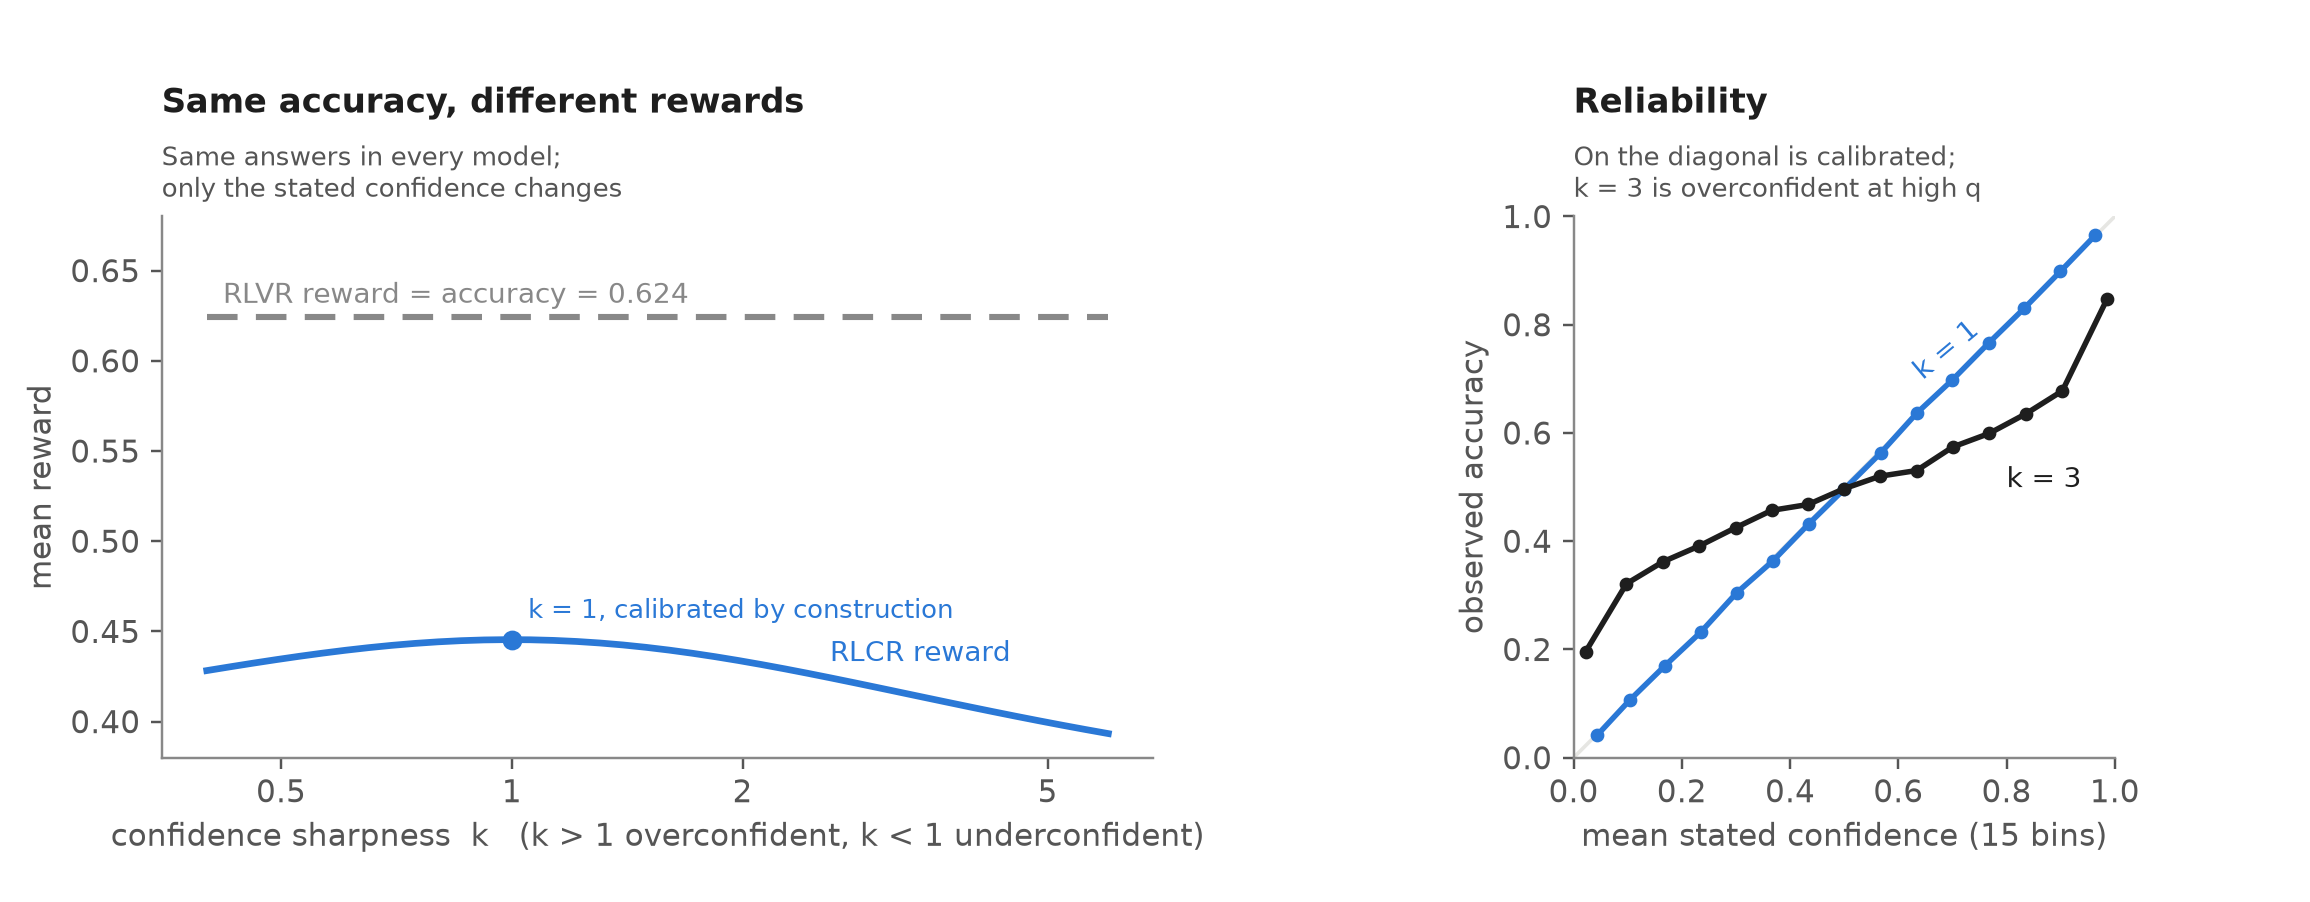
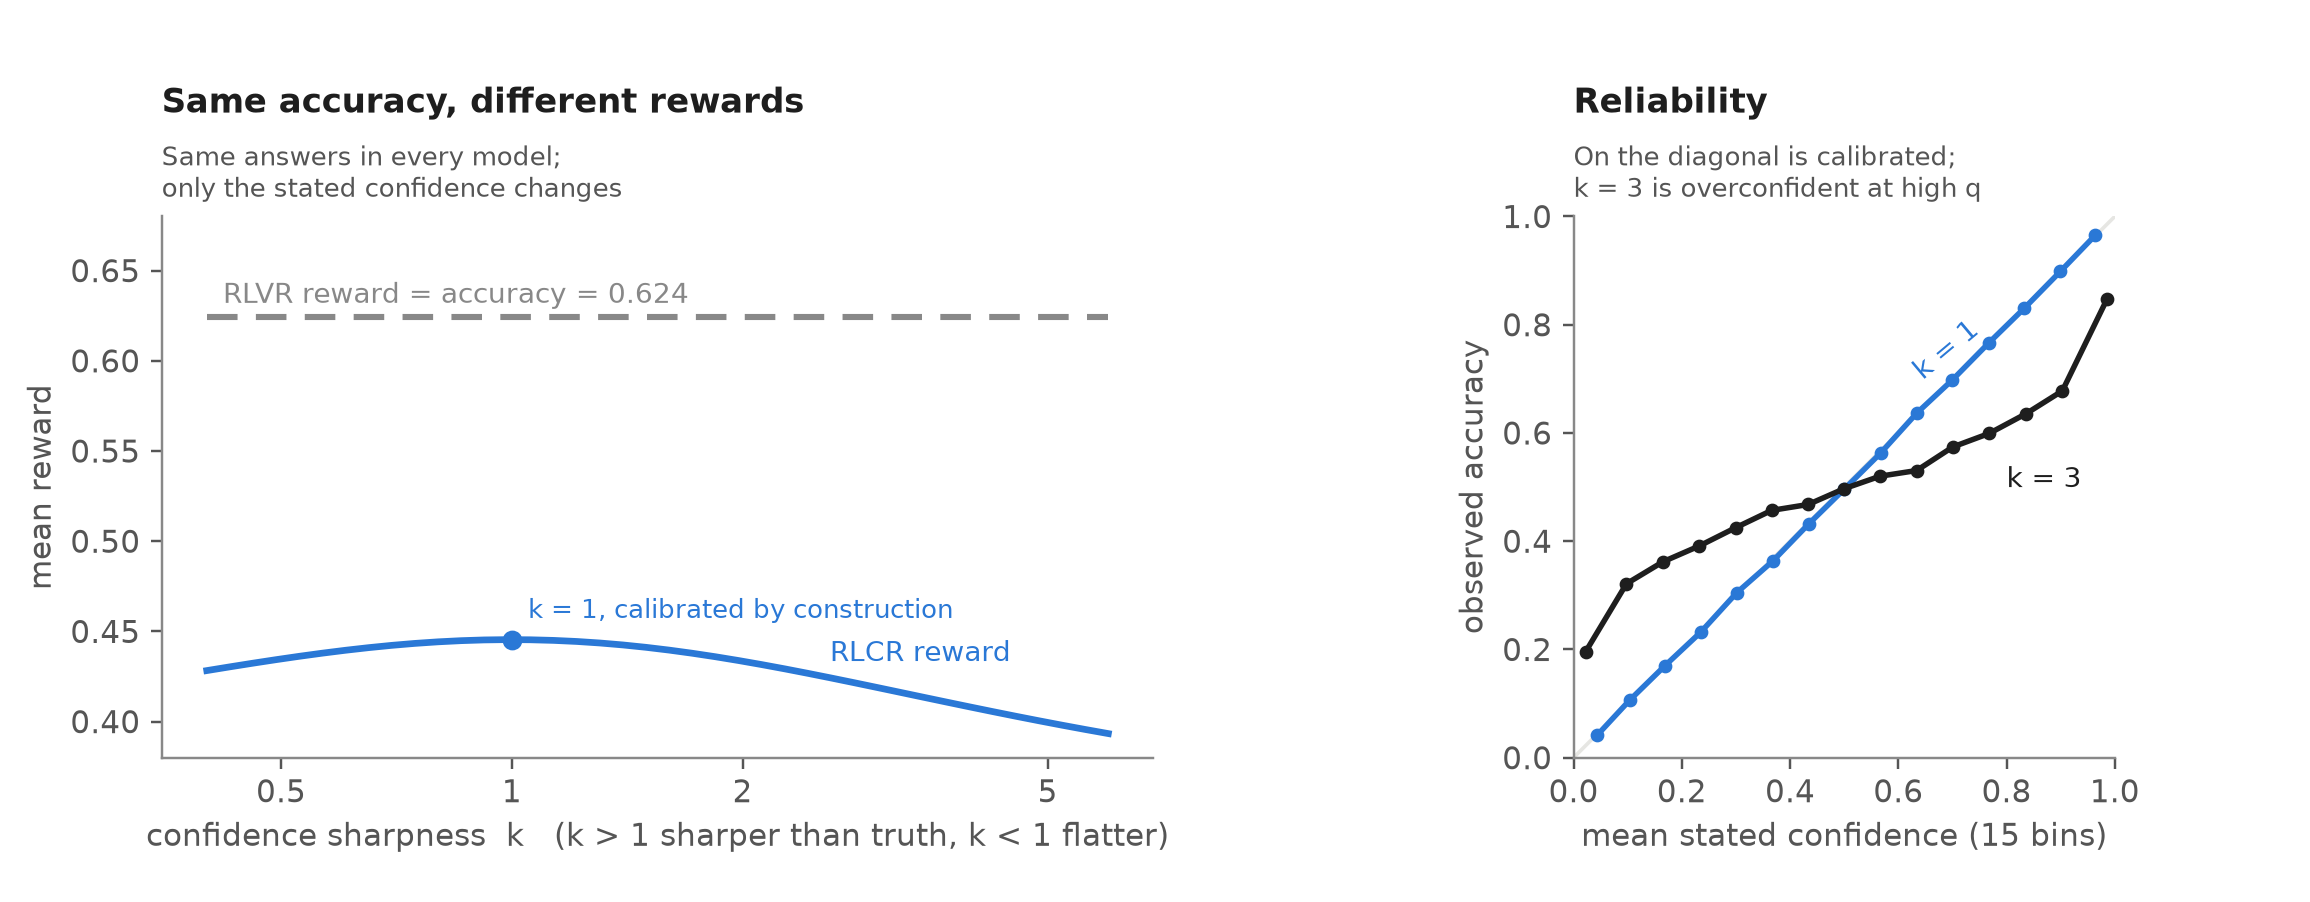
Draft: relabel the toy chart axis and the families figure column and RLCD node, drop the unverified Turtel venue

Changed region(s): [[0.0623, 0.9002, 0.5299, 0.9623]]

diff --git a/tools/rl_post_families_diagram.py b/tools/rl_post_families_diagram.py
@@ -38,7 +38,7 @@ groups = [
     ]),
     ("A proper scoring rule", "Confidence is part of the reward", True, [
         ("RLCR", "Checker plus a Brier term on stated confidence"),
-        ("RLCD recipes", "Disclosed by others; scoring rule on the whole distribution"),
+        ("RLCD recipes", "Disclosed by others; calibration loss on the whole distribution"),
         ("System One: Jev", "Typed probabilities out; reward not published"),
     ]),
 ]
@@ -72,7 +72,7 @@ def curve(x1, y1, x2, y2, color, w=1.8):
 
 svg = []
 # column labels
-for x, t in [(ROOT_X, "THE OBJECTIVE"), (GRP_X, "WHERE THE REWARD COMES FROM"), (M_X, "METHOD AND WHAT IT DOES")]:
+for x, t in [(ROOT_X, "THE OBJECTIVE"), (GRP_X, "WHAT THE REWARD IS BUILT FROM"), (M_X, "METHOD AND WHAT IT DOES")]:
     svg.append(f'<text x="{x}" y="46" class="col">{t}</text>')
 
 # edges first (under nodes)

diff --git a/tools/rl_post_plots.py b/tools/rl_post_plots.py
@@ -112,7 +112,7 @@ ax.text(1.05, (y - (conf(1) - y) ** 2).mean() + 0.012, "k = 1, calibrated by con
         color=ACCENT, fontsize=8.5)
 ax.text(2.6, rl[-12] + 0.012, "RLCR reward", color=ACCENT, fontsize=9)
 ax.set_ylim(0.38, 0.68)
-ax.set_xlabel("confidence sharpness  k   (k > 1 overconfident, k < 1 underconfident)")
+ax.set_xlabel("confidence sharpness  k   (k > 1 sharper than truth, k < 1 flatter)")
 ax.set_ylabel("mean reward")
 ax.set_title("Same accuracy, different rewards", loc="left", pad=34)
 sub(ax, "Same answers in every model;\nonly the stated confidence changes")

diff --git a/_drafts/rl-for-language-models-2026-rlhf-rlvr-system-one.md b/_drafts/rl-for-language-models-2026-rlhf-rlvr-system-one.md
@@ -679,7 +679,7 @@ for k in [0.5, 1, 1.5, 2, 3, 5]:
 - OpenAI, [GPT-4 Technical Report](https://arxiv.org/pdf/2303.08774v6) (calibration before and after post-training)
 - Sharma et al., [Towards Understanding Sycophancy in Language Models](https://arxiv.org/abs/2310.13548) (ICLR 2024)
 - Hugging Face, [TRL GRPO trainer docs](https://huggingface.co/docs/trl/en/grpo_trainer) (default $\beta=0$)
-- Turtel et al., [Outcome-based reinforcement learning to predict the future](https://arxiv.org/abs/2505.17989) (TMLR 2025; Brier reward, GRPO without std scaling, ReMax)
+- Turtel et al., [Outcome-based reinforcement learning to predict the future](https://arxiv.org/abs/2505.17989) (Brier reward, GRPO without std scaling, ReMax)
 - Kadavath et al., [Language Models (Mostly) Know What They Know](https://arxiv.org/abs/2207.05221) (P(IK))
 - Tian et al., [Just Ask for Calibration](https://aclanthology.org/2023.emnlp-main.330/)
 - Decision models: OpenAI, [Decisions guide](https://developers.openai.com/api/docs/guides/decisions); Cloudflare, [Introducing Clef](https://blog.cloudflare.com/clef-decision-models/); Microsoft, [Microsoft-Decision-1](https://commandline.microsoft.com/microsoft-decision-1-model-foundry/); [Kev-4B](https://huggingface.co/jaredpalmer/kev-4b); [Laya](https://huggingface.co/convaiinnovations/laya-typed-decisions)
